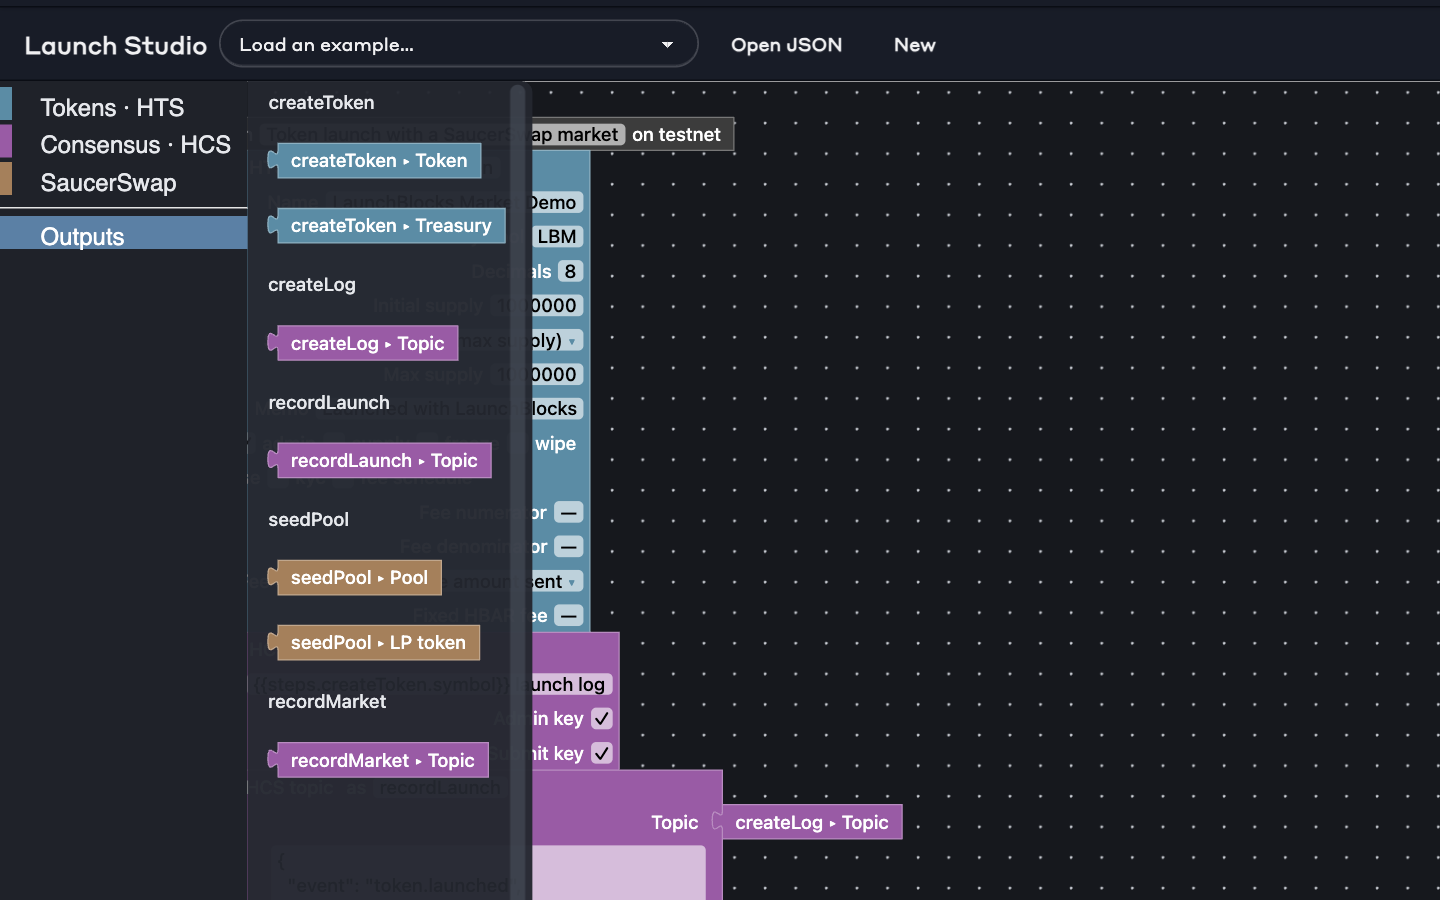
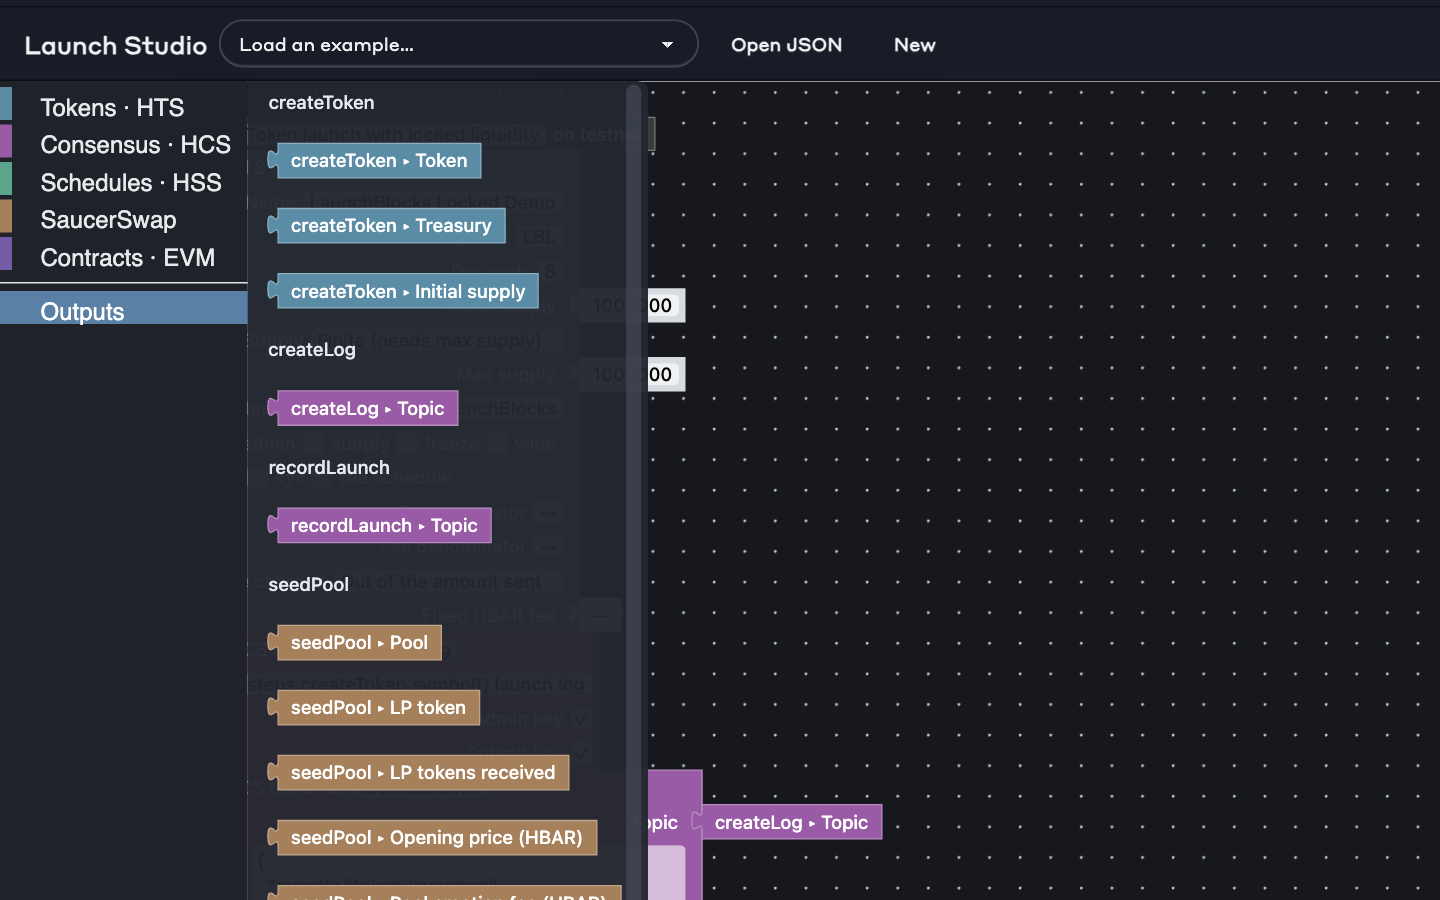
docs: a live studio run as the README's lead image
- docs/images/studio-run.gif: a real testnet run of
  hts-launch-locked-liquidity, started from the Launch Studio and shown at
  three times speed. The nine blocks light up in turn while the run log
  fills: token, launch log, SaucerSwap pool, TokenLock deploy, LP tokens
  locked, the lock read back, and the log entry. 1080 px wide, 832 KB.
- launch-studio.png now shows that run finished, in the locked-liquidity
  section; the old one predated the Schedules and Contracts categories.
- outputs-drawer.png shows amount outputs, such as LP tokens received,
  which amount sockets now take.
- The architecture diagram adds the Schedule Service, contracts, Hardhat
  artifacts and mirror-node contract reads.

Captured with headless Chrome driving the local studio: the example
zoomed to fit, Run on testnet pressed, the screen recorded, then
converted with ffmpeg (3x speed, 8 fps, 128-colour palette).

Changed region(s): [[0.0, 0.0933, 0.625, 1.0]]

diff --git a/README.md b/README.md
@@ -11,7 +11,9 @@ A [Scaffold-HBAR](https://docs.hedera.com/solutions/tools/scaffold-hbar/index) t
 npm create scaffold-hbar@latest -- --template jmgomezl/scaffold-hbar-launchblocks
 ```
 
-![Launch Studio after a live testnet run: six blocks, each marked succeeded, with HashScan links for every transaction](docs/images/launch-studio.png)
+![A live testnet run in the Launch Studio, at three times speed: nine blocks light up in turn as each transaction reaches consensus, from creating the token and its SaucerSwap pool to deploying a TokenLock, locking the LP tokens in it, reading the lock back and logging it, while the run log fills with succeeded steps](docs/images/studio-run.gif)
+
+*A real run of `hts-launch-locked-liquidity` on testnet, started from the Launch Studio and shown at three times speed.*
 
 ## What you get
 
@@ -125,9 +127,10 @@ flowchart TB
   Flow -->|"POST /api/launchblocks/flows/run"| Runner["runner"]
   Flow --> Codegen["codegen"] --> Script["launch.ts"]
   Runner --> Registry["step registry: schema, executor, codegen, docs"]
-  Registry --> Ops["Hedera operations: HTS, HCS, SaucerSwap"]
+  Registry --> Ops["Hedera operations: HTS, HCS, HSS, contracts, SaucerSwap"]
+  Hardhat["packages/hardhat: compiled contracts"] -->|ABI and bytecode| Ops
   Ops --> Hedera[("Hedera testnet")]
-  Ops --> Mirror[("mirror node: quotes, aliases, rates")]
+  Ops --> Mirror[("mirror node: quotes, aliases, rates, contract reads")]
 ```
 
 A **flow** is an ordered list of steps. Each step has a `type`, a camelCase `id`, and `params`. A param can use an earlier step's output with `{{steps.<id>.<key>}}`: a param that is exactly one reference keeps the output's type, and a reference inside longer text is interpolated.
@@ -180,9 +183,9 @@ Generated from the step definitions with `yarn core:docs`; CI fails if this tabl
 | `contract.call` | Call a contract function: views and pure functions for free through the mirror node, others as a transaction. | SmartContract, MirrorNode | `contractId`, `function`, `arg1`, `arg2`, `arg3`, `arg4`, `payableHbar`, `gas` | `result`, `transactionId` |
 <!-- launchblocks:steps:end -->
 
-In the studio, the Outputs drawer lists what each step produces. Drag an output onto any id socket that accepts it:
+In the studio, the Outputs drawer lists what each step produces. Drag an output onto any socket that accepts it: ids and amounts take outputs of their kind, and contract arguments take any output.
 
-![The Outputs drawer listing each step's outputs as draggable blocks, such as createToken ▸ Token and seedPool ▸ Pool](docs/images/outputs-drawer.png)
+![The Outputs drawer listing each step's outputs as draggable blocks, such as createToken ▸ Token, createToken ▸ Initial supply and seedPool ▸ LP tokens received](docs/images/outputs-drawer.png)
 
 ## The SaucerSwap integration
 
@@ -203,6 +206,8 @@ The integration also refuses to create a pool that already exists, grants the ro
 Two things holders of a new token ask: can the team pull the liquidity, and when does more supply arrive?
 
 **`TokenLock`** (`packages/hardhat/contracts/TokenLock.sol`) holds one token until a release time, then pays everything it holds to a fixed beneficiary. It has no owner and nothing changes after deployment, so no one can move the tokens early, including whoever deployed it. Anyone can trigger a release that is due, and the tokens only go to the beneficiary. In `hts-launch-locked-liquidity`, **Deploy contract** creates it with the pool's LP token, the treasury as beneficiary and 30 days, plus one token association slot so it can receive the LP token. **Transfer tokens** moves `seedPool ▸ LP tokens received` into it, and **Call contract** reads `lockedAmount()` and `releaseTime()` back for free before they go on the HCS log. The pool step reads the LP token from the pair's `lpToken()`: on SaucerSwap V1 it is a separate HTS token, not the pair contract. Deploying the lock costs about 16 ℏ, most of it the ContractCreate fee.
+
+![The Launch Studio at the end of a testnet run of hts-launch-locked-liquidity: all nine blocks ticked, and the run log listing every step as succeeded with its HashScan links](docs/images/launch-studio.png)
 
 **Scheduled unlocks** use the Schedule Service. **Schedule a mint** and **Schedule token transfer** create a long-term schedule that the network runs on its date; `delaySeconds` can be at most 62 days, the network's limit. Past that, schedule each tranche within 62 days of a run, or lock the tokens in a contract.
 
